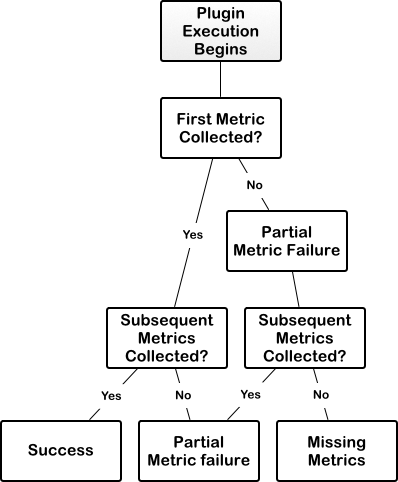
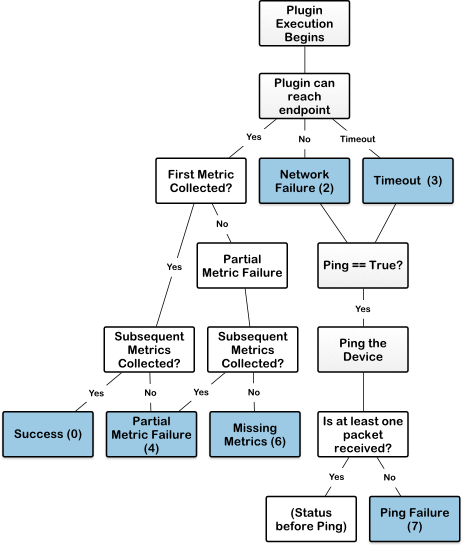
Beefed up the flowchart Added the connection states Updated a couple of ambiguities in the document.

Changed region(s): [[0.0, 0.0, 1.0, 1.0], [0.3618, 0.4668, 0.392, 0.529]]

diff --git a/docs/System_Metrics.md b/docs/System_Metrics.md
@@ -1,8 +1,8 @@
 # Background
 
 This document defines conventions that we've determined for Panoptes.  This formalizes the approach to 
-normalizing the varied returns from different devices into a single set of enriched metrics.  The only _defined_ and
-_concrete_  standard is [DEVICE_METRICS_STATES], however we recommend the following structures to maintain consistency
+normalizing the varied returns from different devices into a single set of enriched metrics.
+We recommend the following structures to maintain consistency.
 
 ## Table of Contents
 
@@ -147,7 +147,7 @@ according to the states.
 status:0
 ```
 
-A more complete exploration follows in [Device Polling Status](#device-polling-status).
+A more complete exploration follows in [Plugin Execution Flow](#plugin-execution-flow).
 
 ## Device Polling Status
 
@@ -161,7 +161,7 @@ All metrics for the device have been collected and the collection cycle is compl
 One or more metrics failed to be collected due to an API or SNMP authentication failure.
 
 #### (2) Network Failure
-One or more metrics failed to be collected due to an API or SNMP connection exception.
+One or more metrics failed to be collected due to an API or SNMP connection failure.
 
 #### (3) Timeout
 The attempt to connect to the device timed out.  Checking ACLs and connection to the device will usually help here. This
@@ -172,27 +172,40 @@ At least one metric collection attempt was successful, but at least one other at
 
 #### (5) Internal Failure
 Metric collection failed due to a problem with the collection code.  These are usually unusual exception states that
-indicate a problem with ambiguous results.
+indicate a problem with the plugin code.
 
 #### (6) Missing Metrics
 The metric collection code executed without error, but the results were empty.
 
-#### (7) Ping failure
+#### (7) Ping Failure
 Attempting to ping the device yielded either a [PanoptesPingException], or resulted in total packet loss (i.e. a packet 
-loss pct of 100%).  Note that this requires a [PanoptesPollingStatus] set to True.
+loss pct of 100%).  Note that this requires a [PanoptesPollingStatus] `ping` set to True.
+
+## Plugin Execution Flow
 
 The flow of the different states can be difficult to visualize - this documents basic flow;
 
 ![Device Polling Flowchart][DevicePollingFlow]
 
-If the `ping` argument to [PanoptesPollingStatus] is true, an additional status check is done;
+(End states are indicated in light blue.)
 
-![Ping Polling Flowchart][PingPollerFlow]
+At any point during the plugin execution an __Internal Failure(5)__ can arise, and is therefore not show on this flow.
+
+At the start of execution, a connection attempt is made.  Here we differentiate between a timeout (failure to respond 
+within an amount of time) and a connection failure (url error, refused connection or a deterministic failure.).
+
+If the `ping` argument to [PanoptesPollingStatus] is set to True and a __Timeout(3)__ or __Network Failure(2)__ 
+occurred, we ping the endpoint.  If this succeeds, the initial failure state of __Timeout(3)__ or __Network Failure(2)__
+is preserved.  If the ping fails, then __Ping Failure(7)__ is returned.
+
+if the first metric and all subsequent metrics are returned, a __Success(0)__ is recorded.  If the first metric is 
+collected, and all subsequent metrics fail, then __Partial Metric Failure(4)__ is returned.  If all metric collections 
+fail, __Missing Metrics(6)__ is returned.
 
 
 [DEVICE_METRICS_STATES]: ../yahoo_panoptes/plugins/polling/utilities/polling_status.py
 [PanoptesPingException]: ../yahoo_panoptes/framework/utilities/ping.py
 [PanoptesPollingStatus]: ../yahoo_panoptes/plugins/polling/utilities/polling_status.py
 
-[DevicePollingFlow]: ../docs/device_polling_flow.png "Device Polling Flowchart"
+[DevicePollingFlow]: ../docs/device_polling_flow.svg "Device Polling Flowchart"
 [PingPollerFlow]: ../docs/ping_polling.png "Ping Polling Flowchart"
